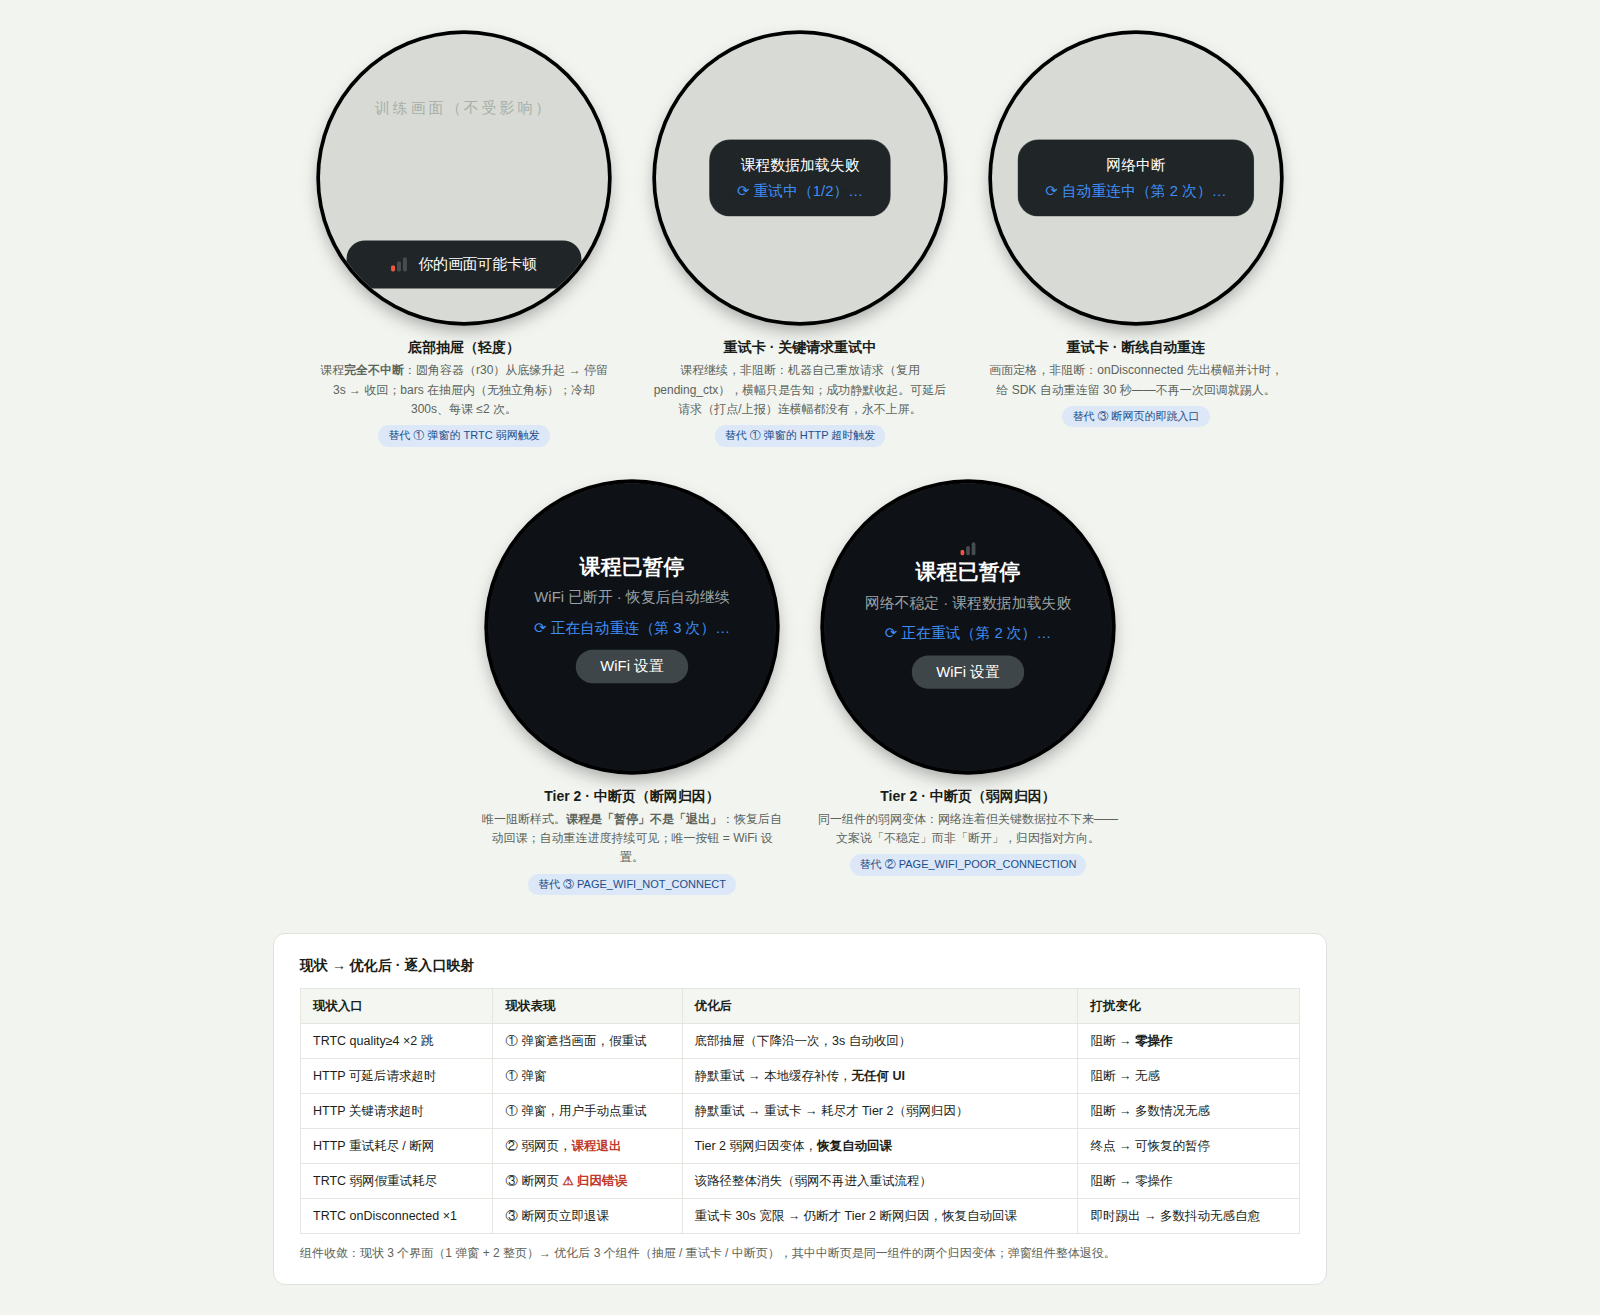
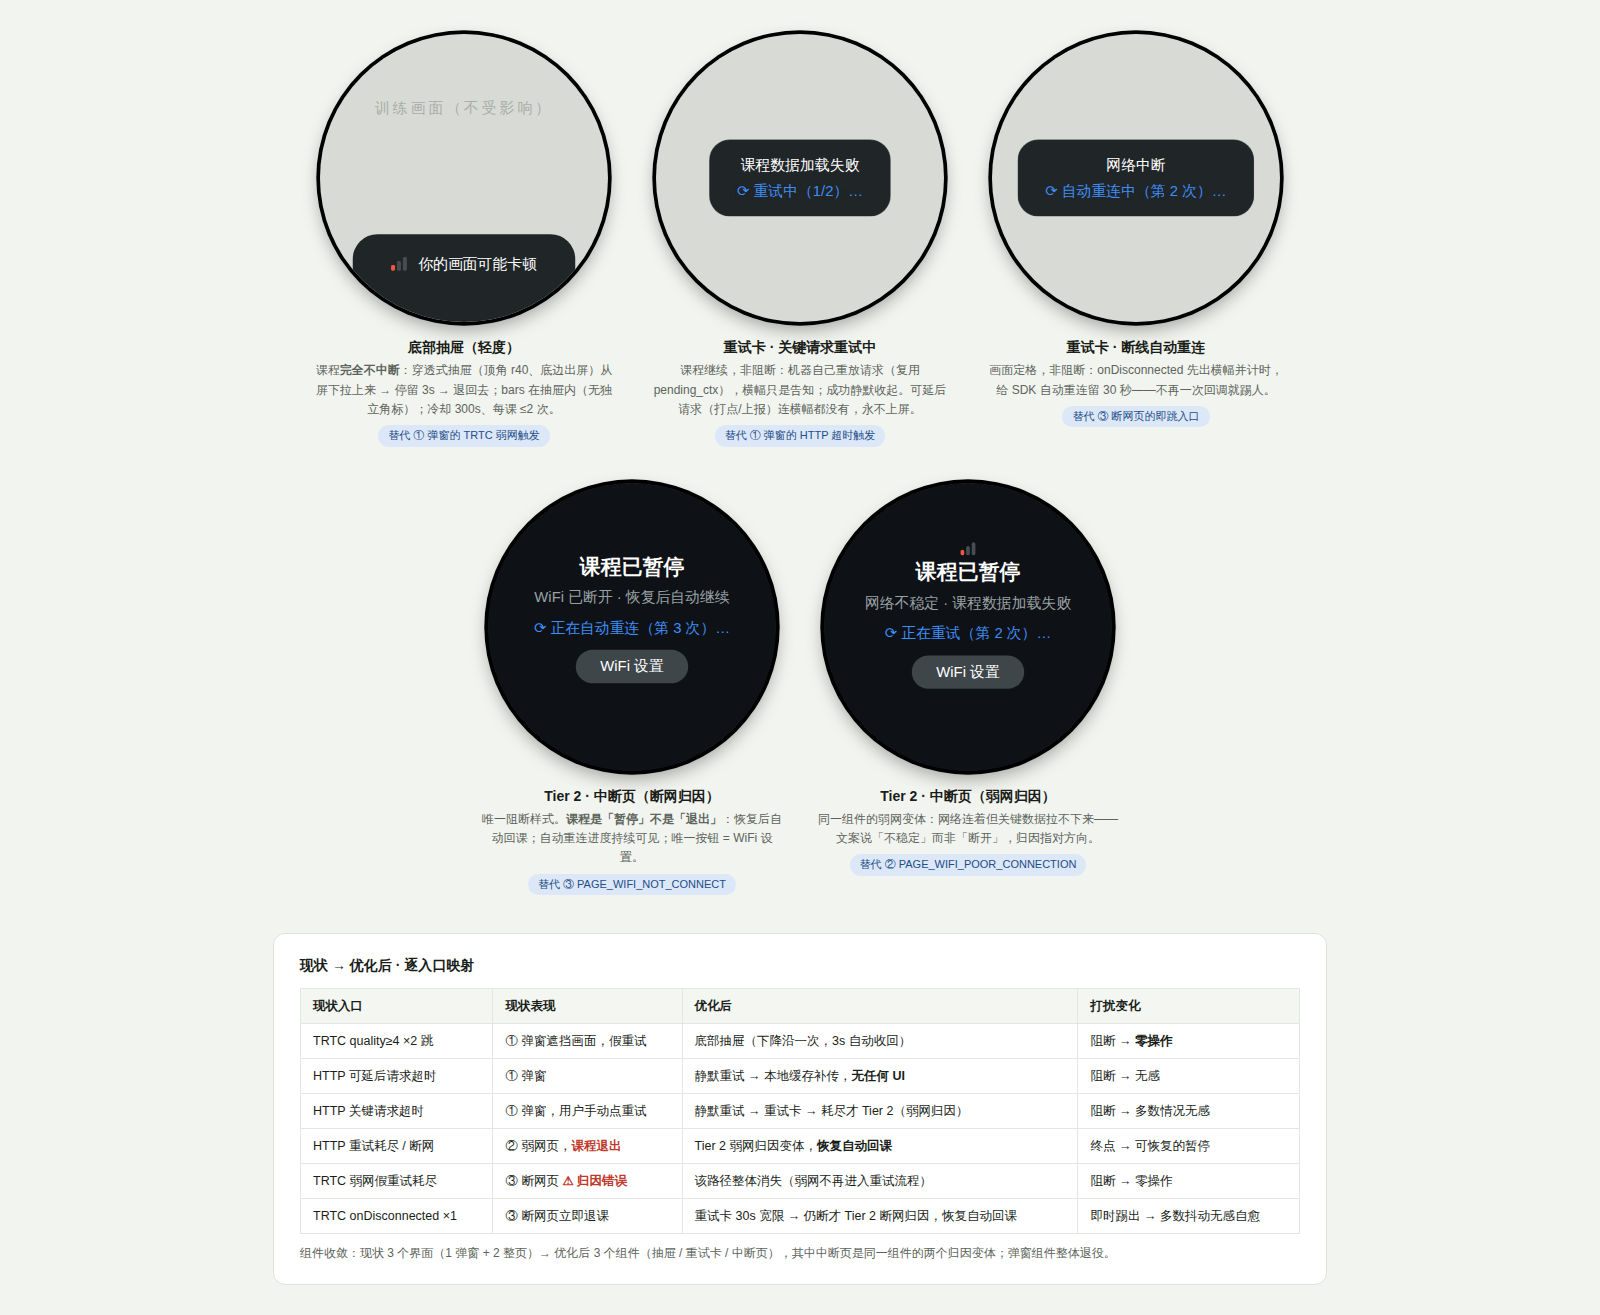
Reshape drawer as bleed-through bottom sheet (r40) with enter/exit motion
- Drawer now reads as a panel larger than the screen pulled up from
  below: top corners r40 fully visible, bottom edge and lower sides
  extend past the round bezel and get clipped by it (360px wide,
  ~142px visible height, anchored to bottom)
- Add looping enter/exit animation to the demo: rise 0.45s ease-out,
  hold 3s, retract 0.45s ease-in (respects prefers-reduced-motion)
- Export the motion as images/动效-课中抽屉.gif and reference it in
  PRD-3; update drawer specs in PRD-3 style table, dev checklist, and
  the optimized-form sheet; re-export both in-class figures

Claude-Session: https://claude.ai/code/session_01GK61VJL6HvXSFdCeuPzjiU

Changed region(s): [[0.1875, 0.2806, 0.375, 0.3118], [0.2188, 0.2183, 0.3438, 0.2494], [0.2188, 0.1559, 0.3438, 0.1871]]

diff --git a/Demo-界面交互UI设计.html b/Demo-界面交互UI设计.html
@@ -120,12 +120,23 @@
   }
   .class-bg-light { position: absolute; inset: 0; background: #d8dbd5; }
   .class-hint-light { position: absolute; top: 42%; width: 100%; text-align: center; color: #a7afa8; font-size: 24px; letter-spacing: .2em; }
+  /* 穿透式抽屉：顶角 r40，底边延伸出圆屏外（比屏幕大、从下方拉上来） */
   .drawer {
-    position: absolute; left: 50%; transform: translateX(-50%); bottom: 54px;
-    width: 340px; background: rgba(26,31,34,.97); border-radius: 30px;
-    padding: 22px 20px; display: flex; align-items: center; justify-content: center;
+    position: absolute; left: 50%; transform: translate(-50%, 0); bottom: 0;
+    width: 360px; height: 142px; box-sizing: border-box;
+    background: rgba(26,31,34,.97); border-radius: 40px 40px 0 0;
+    padding: 0 20px 46px; display: flex; align-items: center; justify-content: center;
     gap: 12px; font-size: 24px; color: #fff; white-space: nowrap;
+    animation: drawer-cycle 5.6s infinite; animation-delay: -1.2s;
   }
+  /* 升起 0.45s → 停留 3s → 收回 0.45s → 隐藏间歇 */
+  @keyframes drawer-cycle {
+    0% { transform: translate(-50%, 110%); animation-timing-function: cubic-bezier(.16,.84,.28,1); }
+    8% { transform: translate(-50%, 0); }
+    62% { transform: translate(-50%, 0); animation-timing-function: cubic-bezier(.55,.06,.68,.19); }
+    70%, 100% { transform: translate(-50%, 110%); }
+  }
+  @media (prefers-reduced-motion: reduce) { .drawer { animation: none; } }
   .retry-card {
     position: absolute; left: 50%; top: 50%; transform: translate(-50%,-50%);
     background: rgba(24,29,32,.96); border: 1.5px solid rgba(255,255,255,.16);
@@ -421,7 +432,7 @@
         <div class="class-hint-light" data-en="W O R K O U T">训 练 画 面</div>
         <div class="drawer"><span class="bars" style="transform:scale(.8); transform-origin:left center"><i class="b1" style="background:var(--dev-warn)"></i><i class="b2" style="background:var(--dev-warn)"></i><i class="b3 dim"></i></span><span data-en="Quality reduced">网络一般 · 已降低画质</span></div>
       </div></div>
-      <figcaption><b>抽屉 · 黄（降级告知）</b><span>底部圆角容器（r30）升起 → 停留 3s → 收回；bars 在抽屉内，零按钮</span></figcaption>
+      <figcaption><b>抽屉 · 黄（降级告知）</b><span>穿透式抽屉（顶角 r40、底边出屏）：从屏下拉上来 → 停留 3s → 退回去（循环演示动效）；bars 在抽屉内，零按钮</span></figcaption>
     </figure>
 
     <figure class="shot">

diff --git a/PRD-3-课中双端提示.md b/PRD-3-课中双端提示.md
@@ -89,9 +89,11 @@ TRTC 链路   onNetworkQuality（约 2s 一跳）
 
 | 组件 | 位置（空间语义） | 结构 | 规格 | 动效与时长 |
 | --- | --- | --- | --- | --- |
-| 抽屉 | **底部圆角容器**：从底缘升起、悬停在画面下沿的完整圆角矩形（四角 r30 全可见、不被圆缘裁切）；宽 340px、距底 54px | mini bars（灯色）+ 单行文案 | 文案 24px、≤10 全角（底部圆弦窄）；抽屉高 ≈ 68px | 上滑升起 → 停留约 3s → 下滑收回；冷却 300s、≤2 次/课（恢复不计入） |
+| 抽屉 | **穿透式底部抽屉**：比屏幕大、从屏下拉上来的面板——顶部两角 r40 完整可见，底边与两侧下段延伸出圆屏外（被圆缘裁掉），贴底 | mini bars（灯色）+ 单行文案，内容行居可见区中部 | 宽 360px、可见高 ≈ 142px；文案 24px、≤10 全角 | 升起 0.45s（ease-out）→ 停留约 3s → 收回 0.45s（ease-in）；冷却 300s、≤2 次/课（恢复不计入） |
 | 重试 UI | **屏幕中央双行胶囊卡**——挡在内容前但不占满屏，正是「半阻断」的空间表达 | 第 1 行事件（「网络中断」/「课程数据加载失败」）+ 第 2 行蓝色进度（「⟳ 自动重连中（第 N 次）…」/「⟳ 重试中（1/2）…」，**有限次数外显**，耗尽即升级） | 两行均 24px、事件行 ≤8 全角；1.5px 白 16% 描边——与报告卡同一视觉语言：**描边 = 进行中的容器** | 持续显示至成功（静默收起 + 恢复抽屉）或超时/耗尽升级；spinner 匀速旋转；断线变体画面定格调暗 50%，数据变体画面继续 |
 | 阻断 UI | 全屏 | 归因图标（断网 = 扇形断开 / 弱网 = 红 1 格 bars）→ 标题 32「课程已暂停」→ 归因副行 24 灰 → 重试进度行 24 蓝 → 实底按钮「WiFi 设置」 | 沿用全局三档字号（32/24/15）与按钮规范 | 恢复 → 自动回课 + 恢复抽屉 |
+
+![抽屉出现与退出动效：从屏下拉上来 → 停留 3s → 退回去](./images/动效-课中抽屉.gif)
 
 **位置语义（打扰级别的空间表达）**：**底缘抽屉 = 轻度瞬时** → **居中卡 = 中度持续**（挡在内容前）→ **全屏 = 阻断**。侵入面积随级别递增，位置本身就是语义。**课中无独立常驻角标（评审决议）**：网络信号 icon（bars）**永远跟随内容容器出现**——抽屉内、重试卡内、阻断页内；单独挂在画面顶部的状态图标属于常驻噪音，且与「提示即事件」冲突，灯的常驻表达由课前入口（PRD-1/2）承担。
 

diff --git a/开发注意事项-业务逻辑清单.md b/开发注意事项-业务逻辑清单.md
@@ -42,7 +42,7 @@
 
 ## 5. 课中（详见 [`PRD-3-课中双端提示.md`](./PRD-3-课中双端提示.md)，含现状代码函数级改造映射）
 
-- [ ] 轻度抽屉（底部圆角容器 r30）冷却 5 分钟、每节课最多 2 次、升起 3s 自动收回、零操作；方向归因（上行差=你的画面 / 下行差=课程画面）；**课中无独立常驻角标——bars 永远随容器出现**；
+- [ ] 轻度抽屉（穿透式底部面板，顶角 r40、底边出屏）冷却 5 分钟、每节课最多 2 次、升起 3s 自动收回、零操作；方向归因（上行差=你的画面 / 下行差=课程画面）；**课中无独立常驻角标——bars 永远随容器出现**；
 - [ ] **带宽保护**：动作识别期间暂停后台上传；重进课程取消未完成的上传队列（v1 不做断点续传）；
 - [ ] 全屏中断页是**唯一**允许的阻断样式（仅真断线且自动重连失败）；「重试 / OK」类手动确认弹窗全部移除。
 
